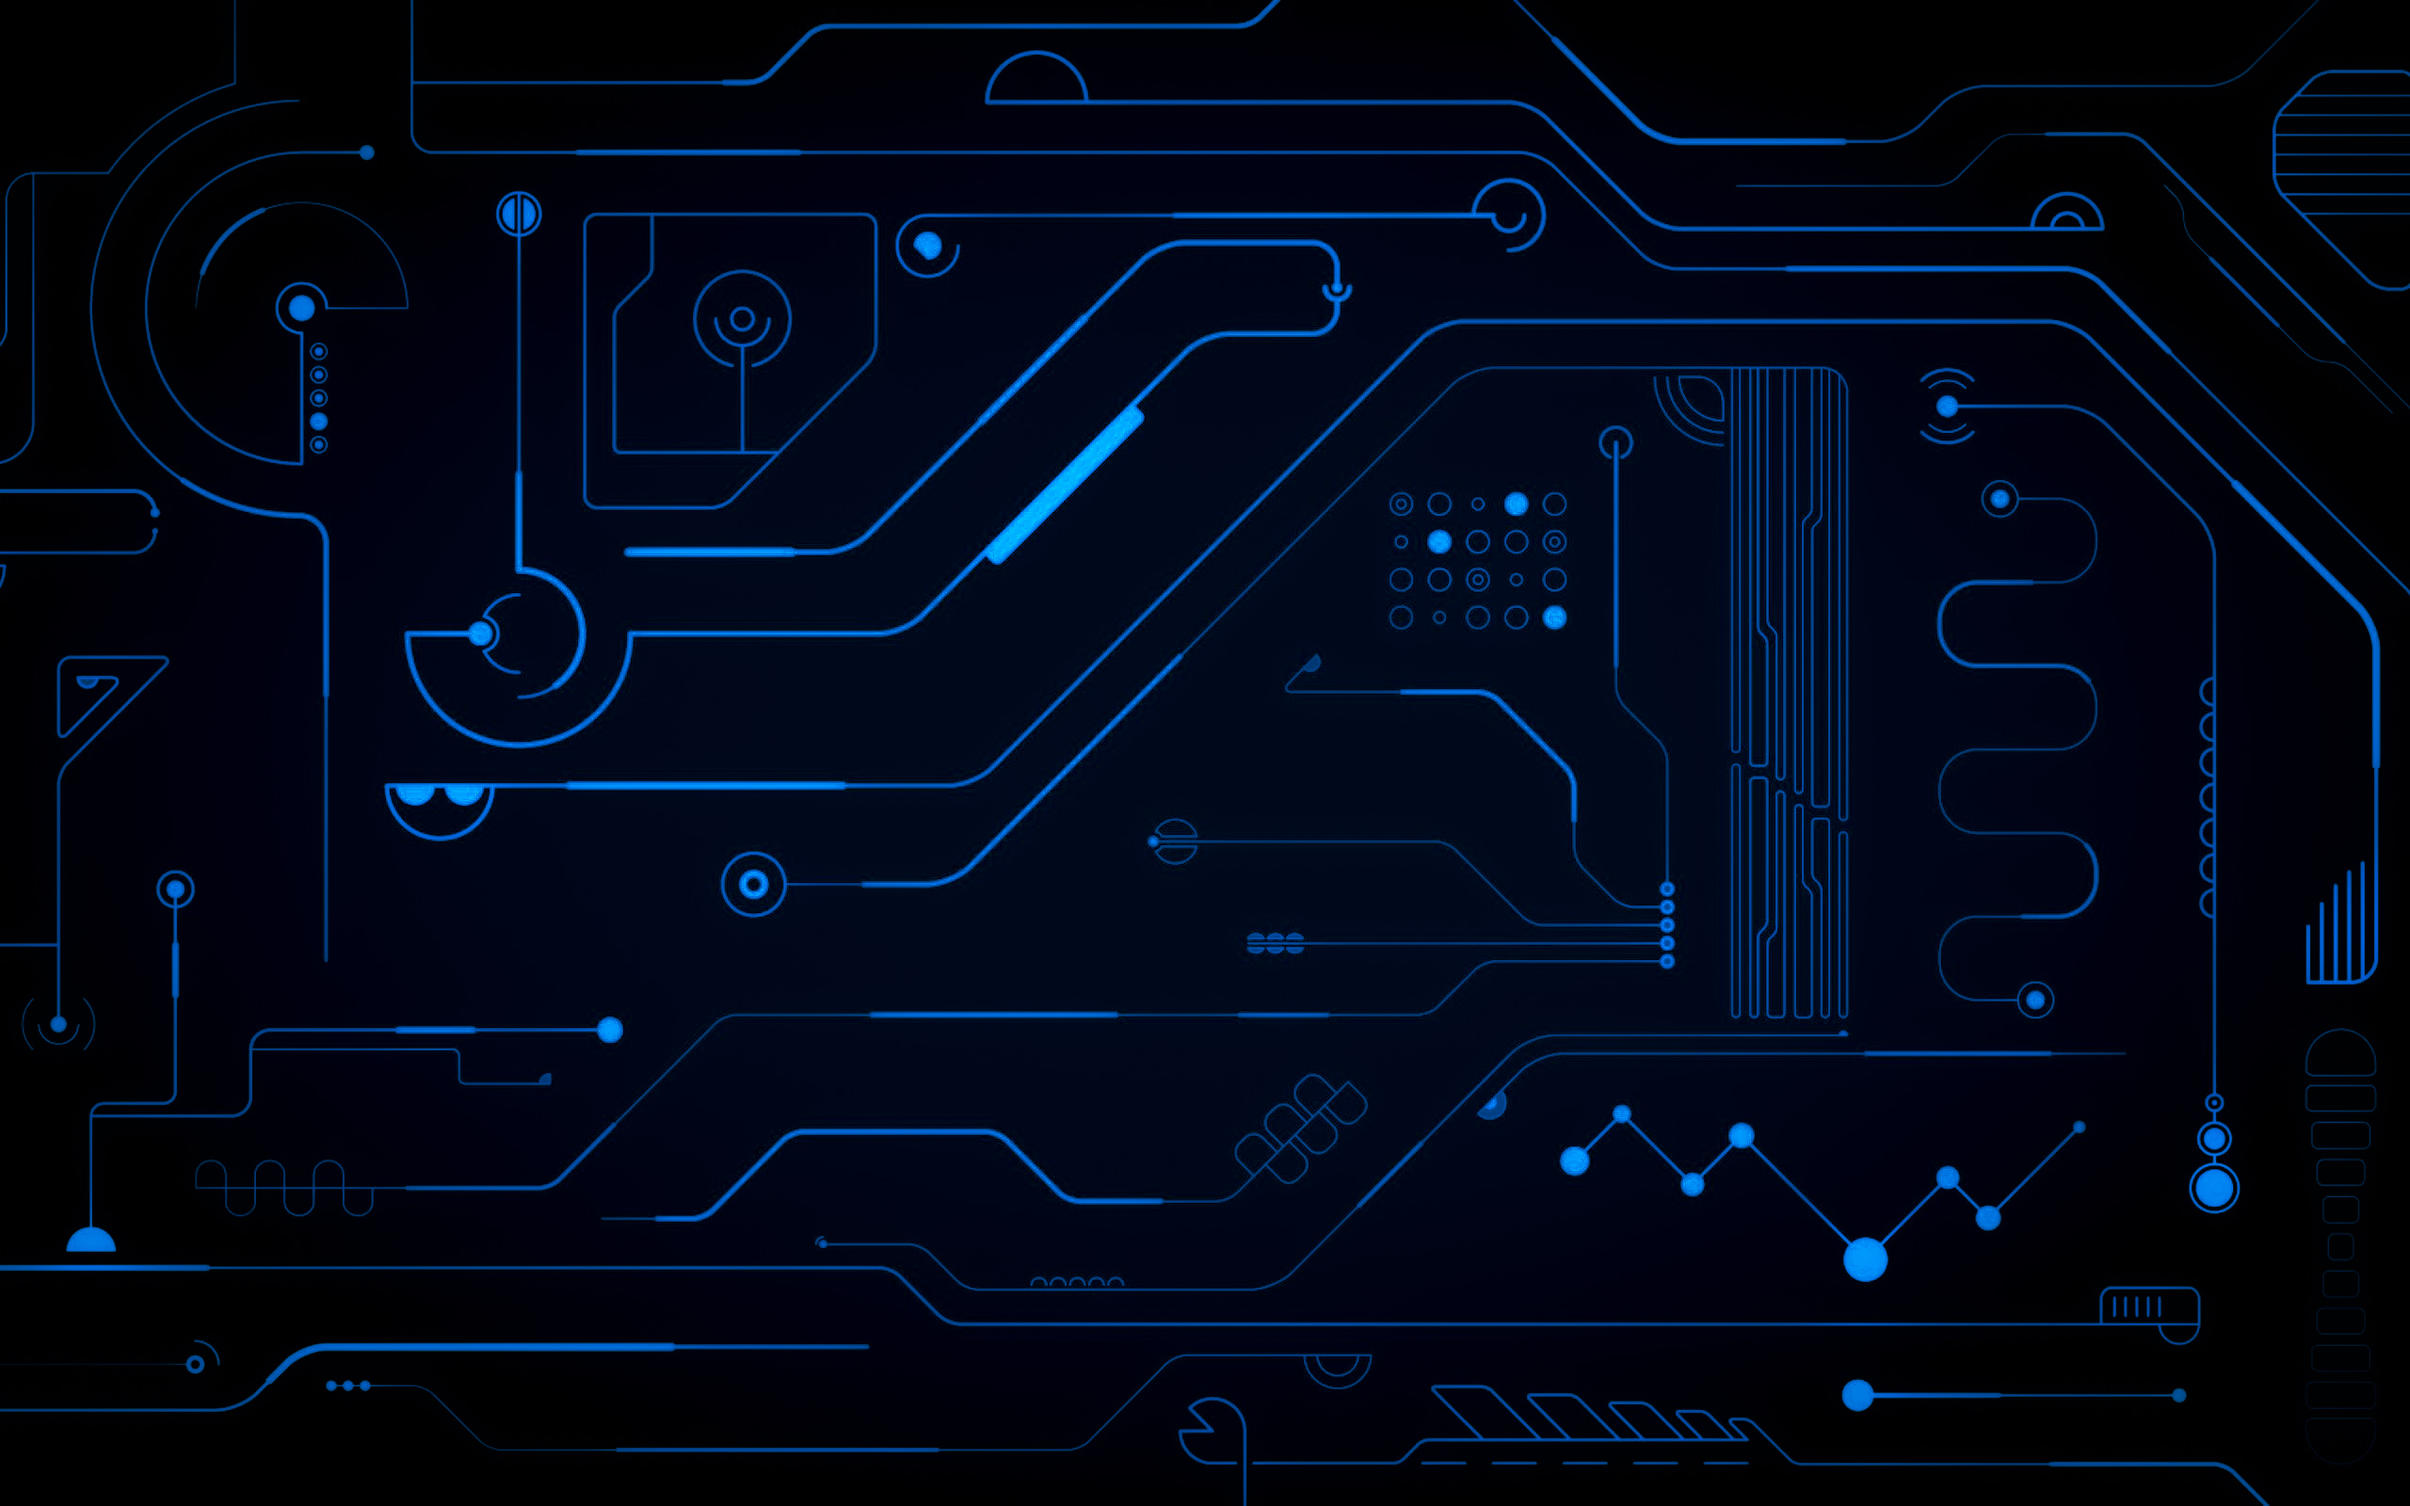
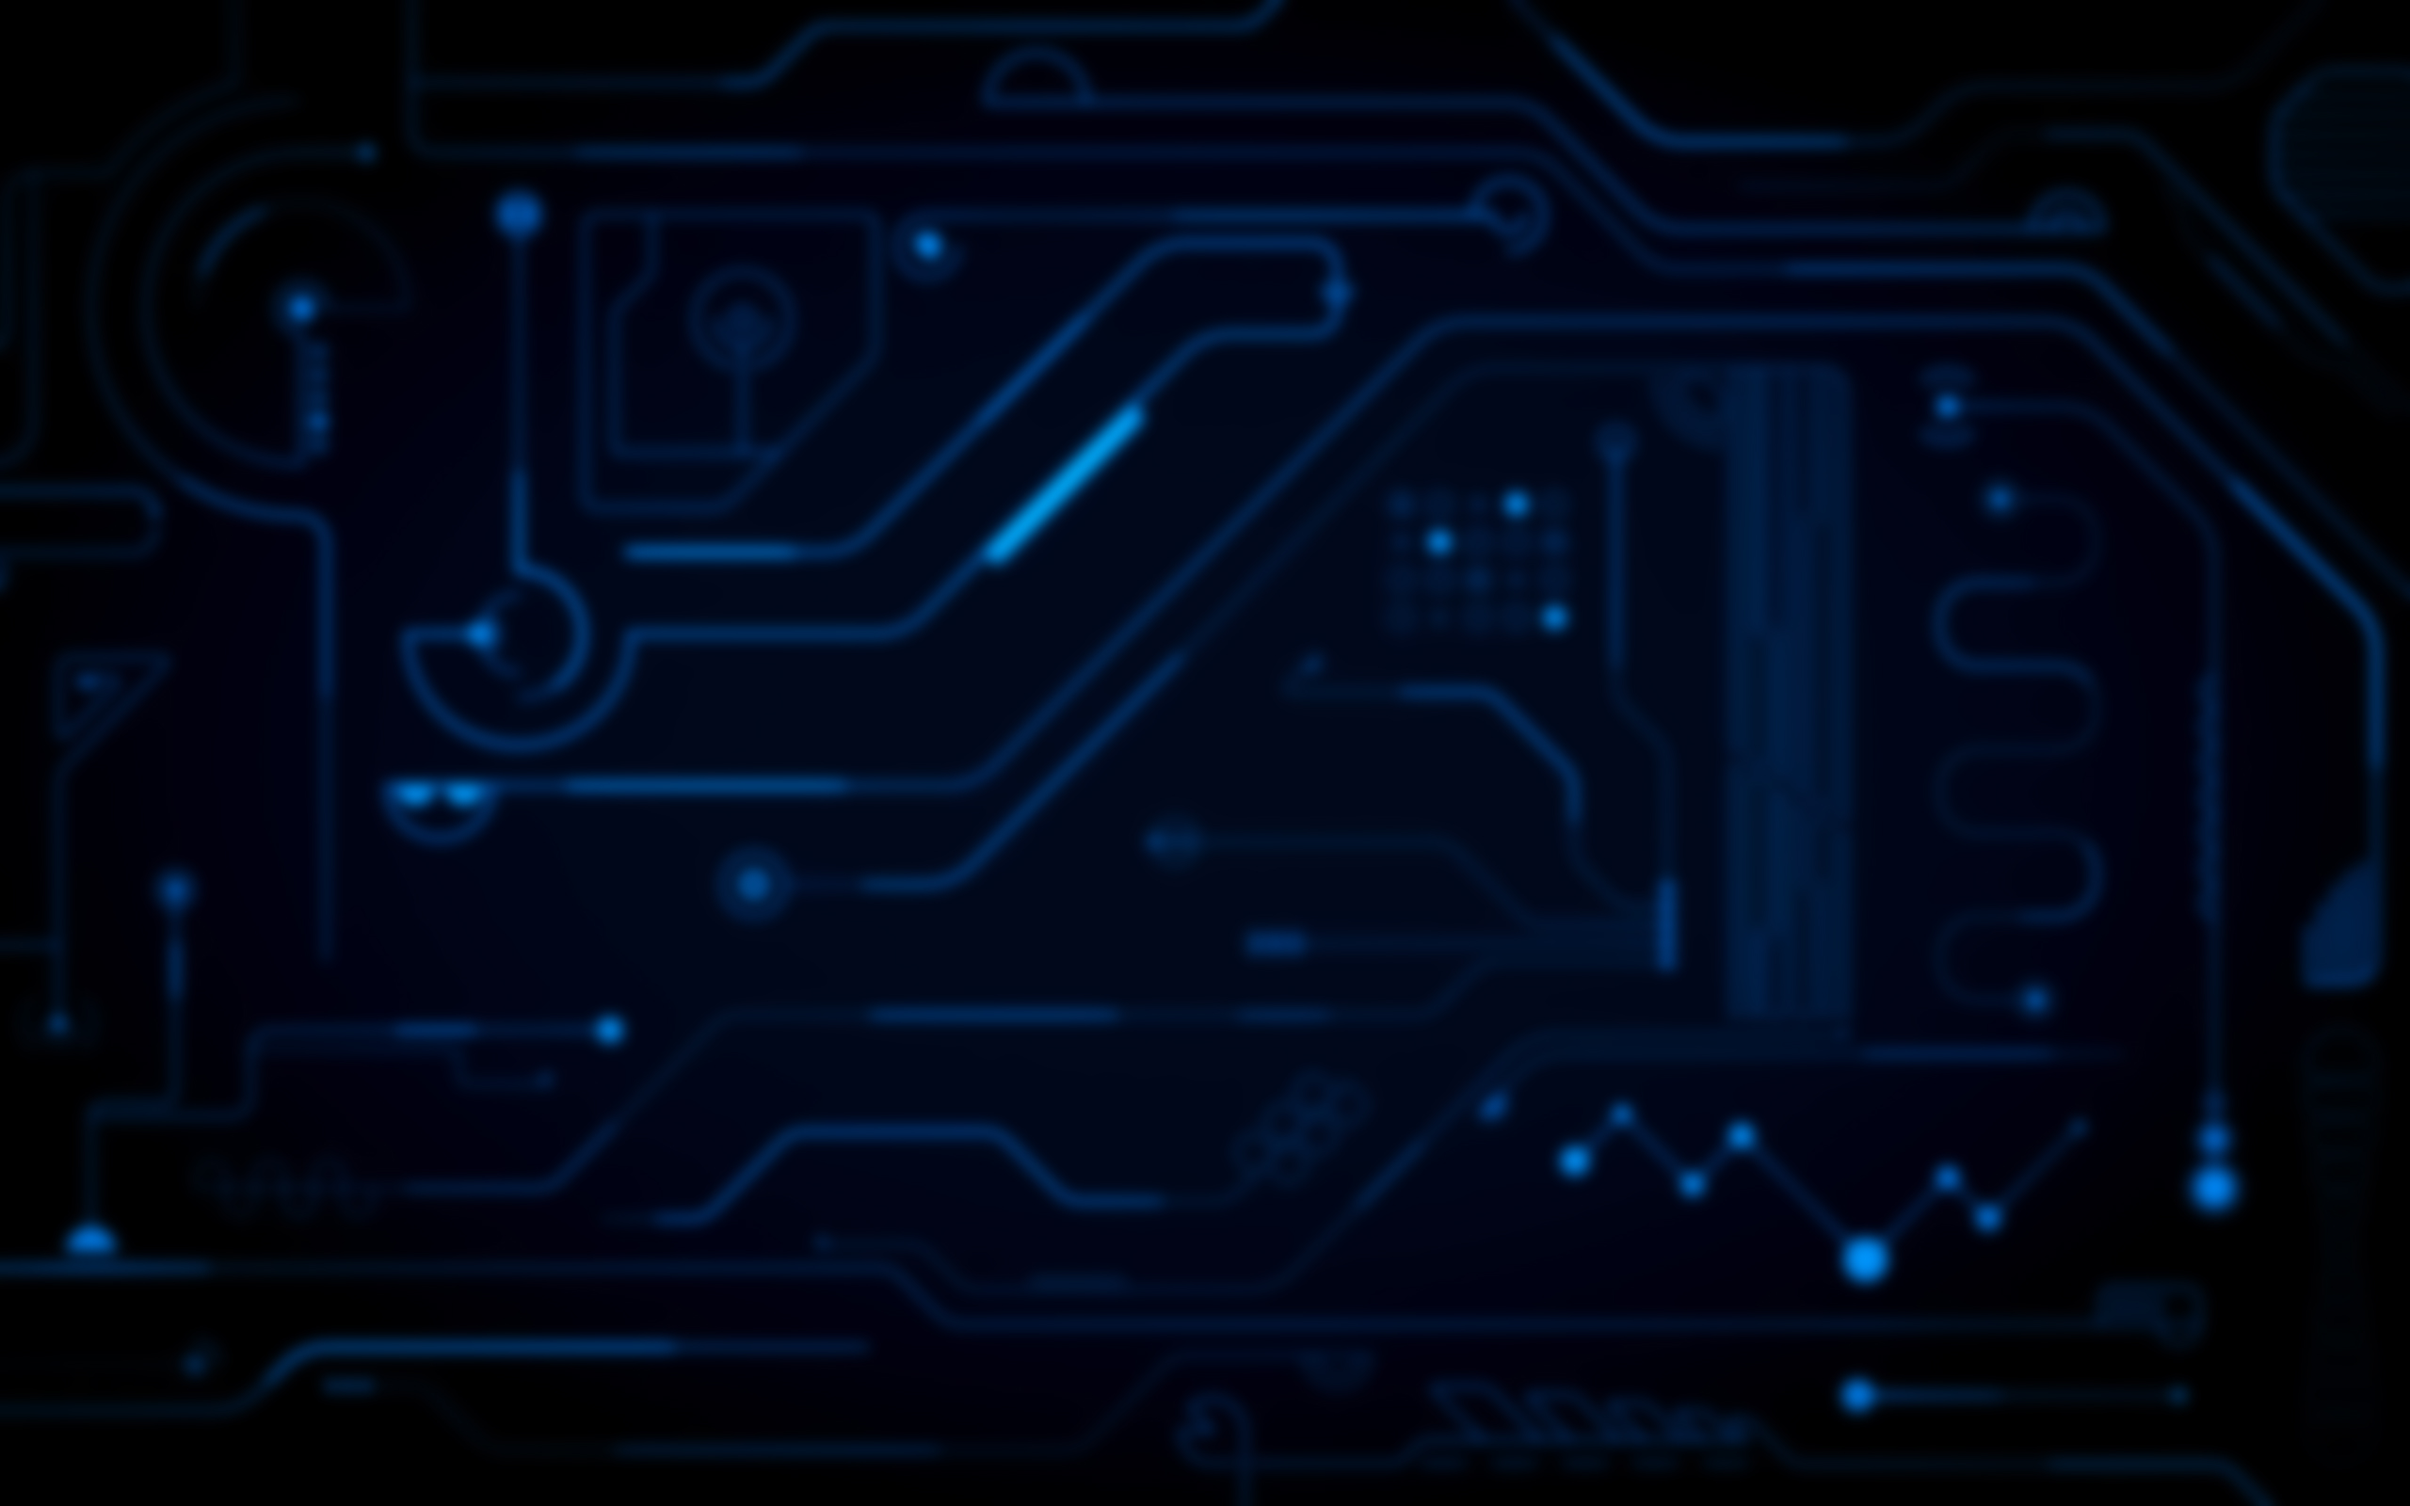
Agregué configuración del background

diff --git a/resources/views/Inicio.blade.php b/resources/views/Inicio.blade.php
@@ -5,12 +5,18 @@
     @parent
 @show
 @section('Contenido')
-<div class="col-md-12" style="background-image:url('/images/dorada.jpeg');
+<div class="col-md-12" style="background-image:url('/images/doradas.jpg');
  background-repeat: no-repeat;
         background-position: center;
         background-attachment: fixed;
         background-size: cover;
-height:500px">
+height:500px; text-align: center">
+    <div style="padding-top: 240px;display: inline-block">
+        <div class="col-md-12" style="text-align: center"><p style="color: #FFFFFF;text-align:center;
+        font-size:80px; letter-spacing: 50px;
+        padding-left: 50px;
+        font-family: 'Century Gothic';">Bienvenido</p></div>
+    </div>
 </div>
 <br><br><br><br><br><br>
     <h5>hola</h5>
